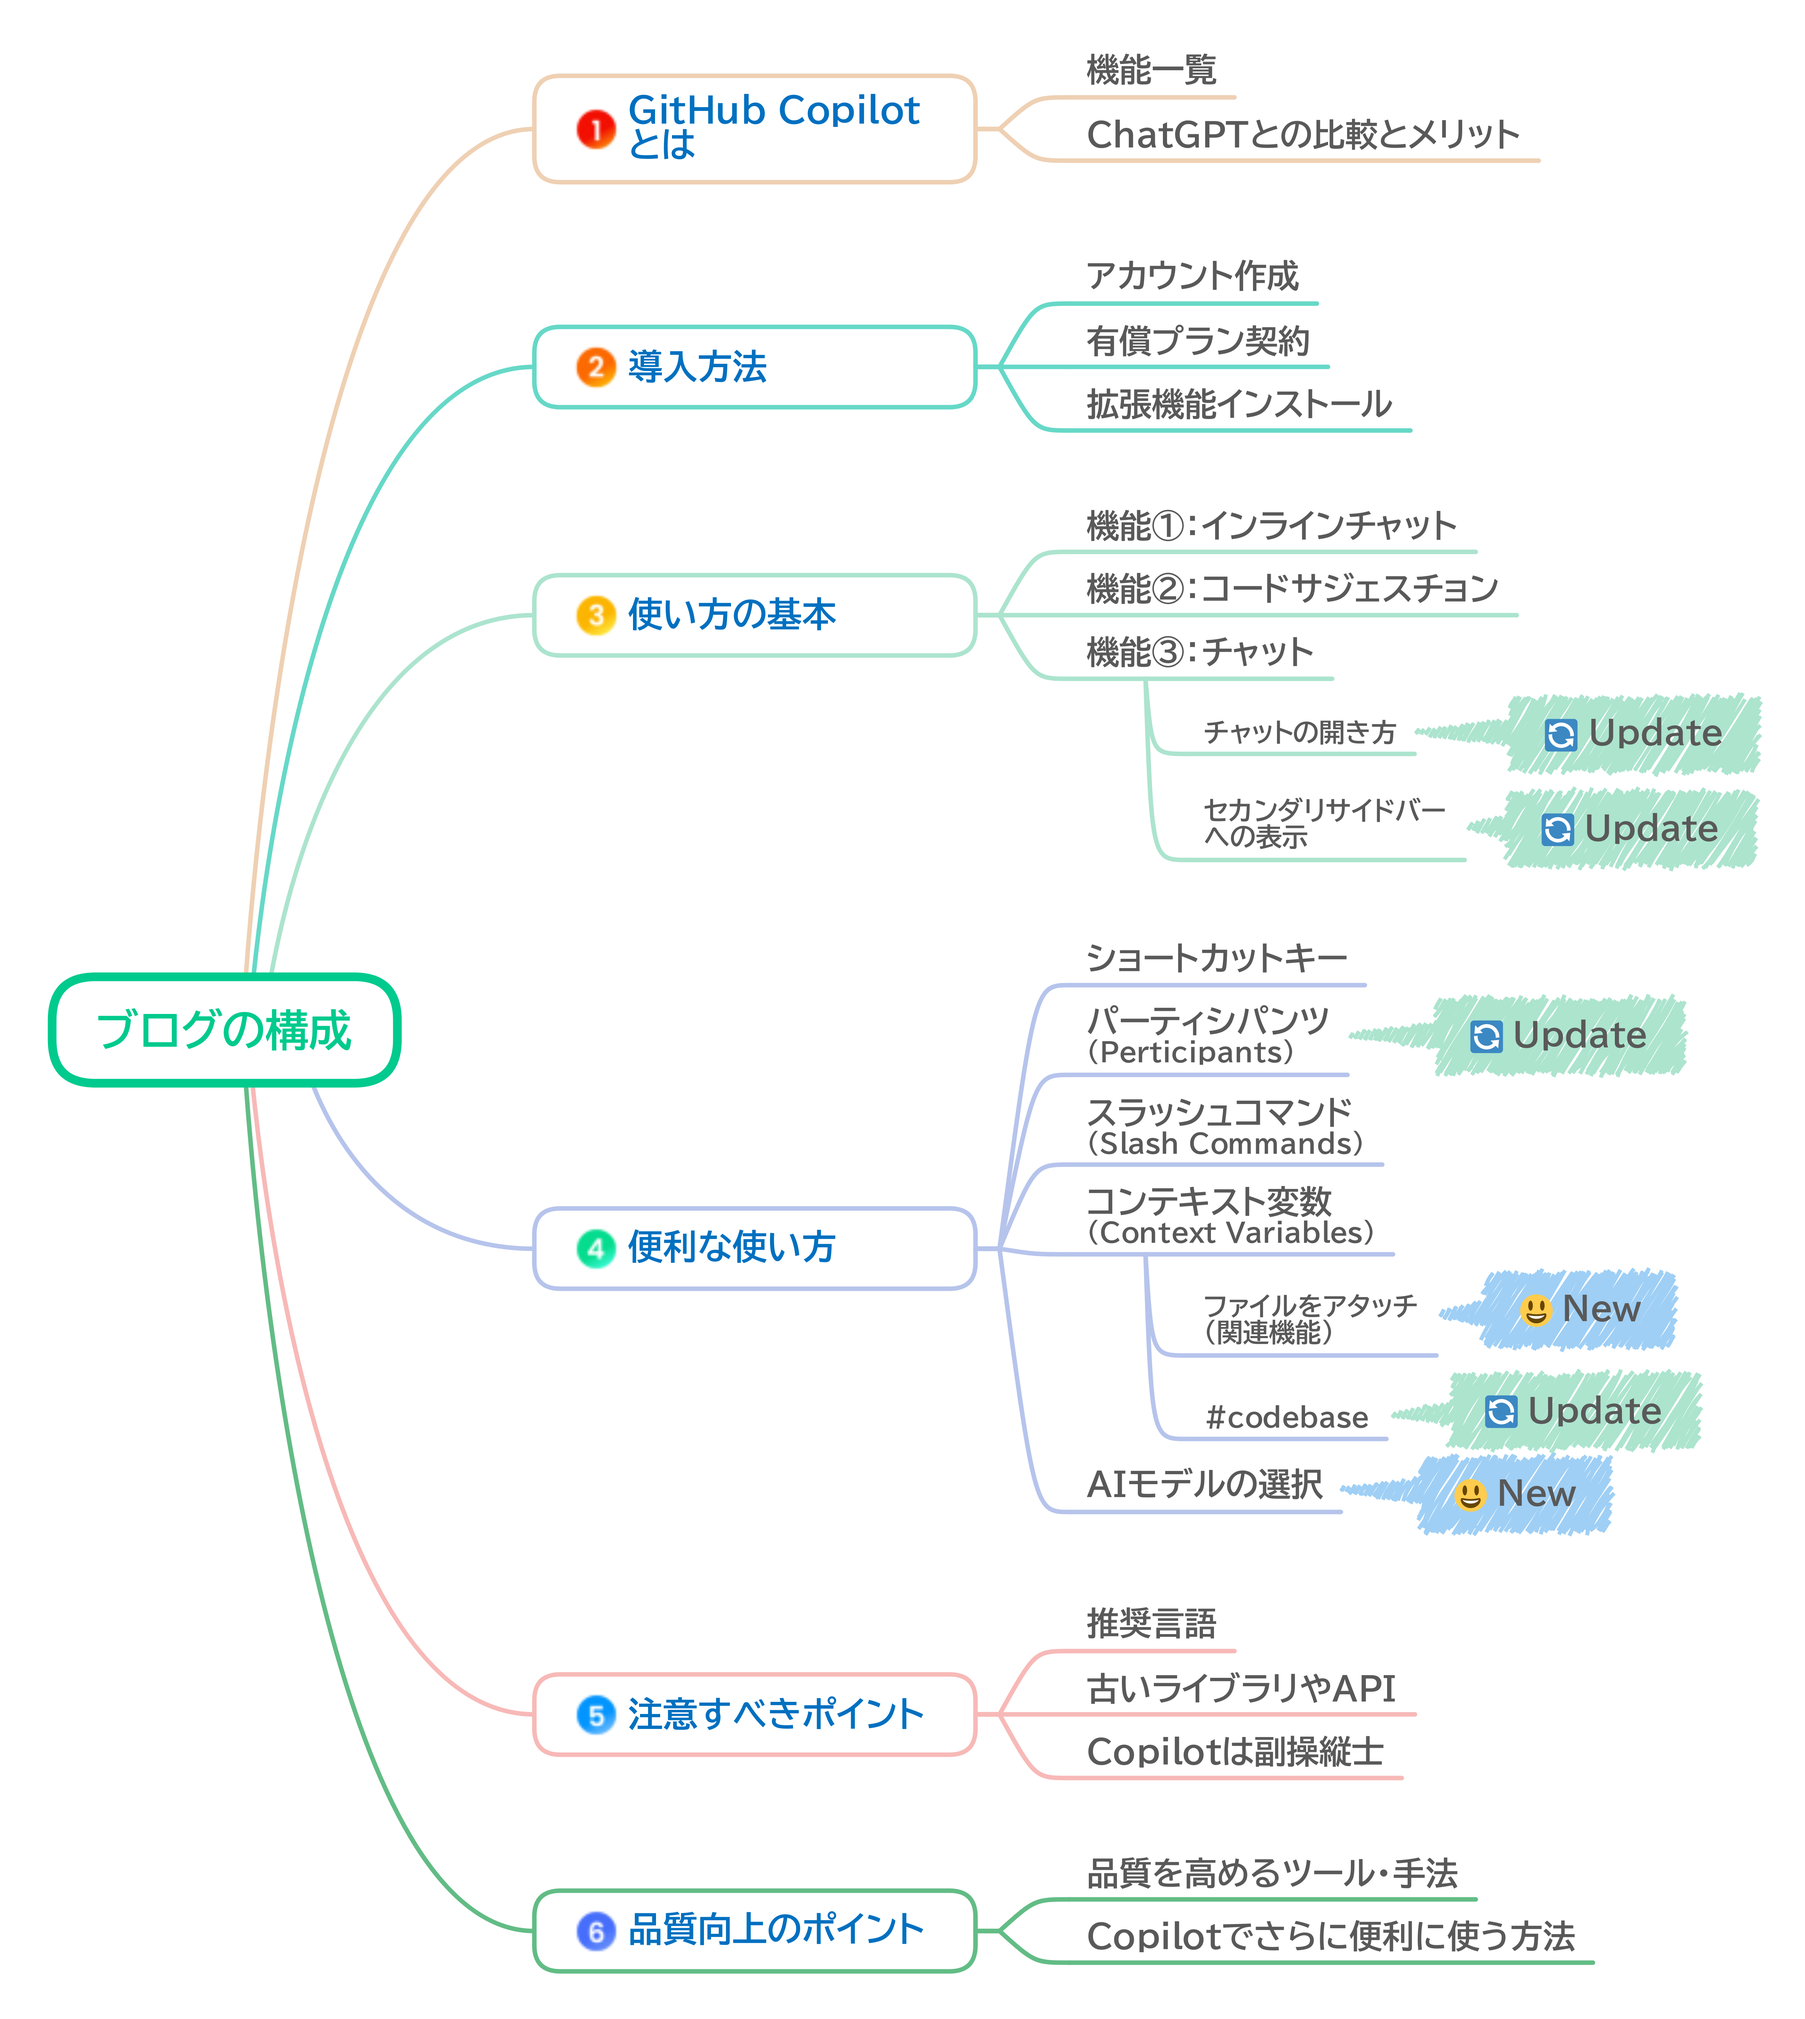
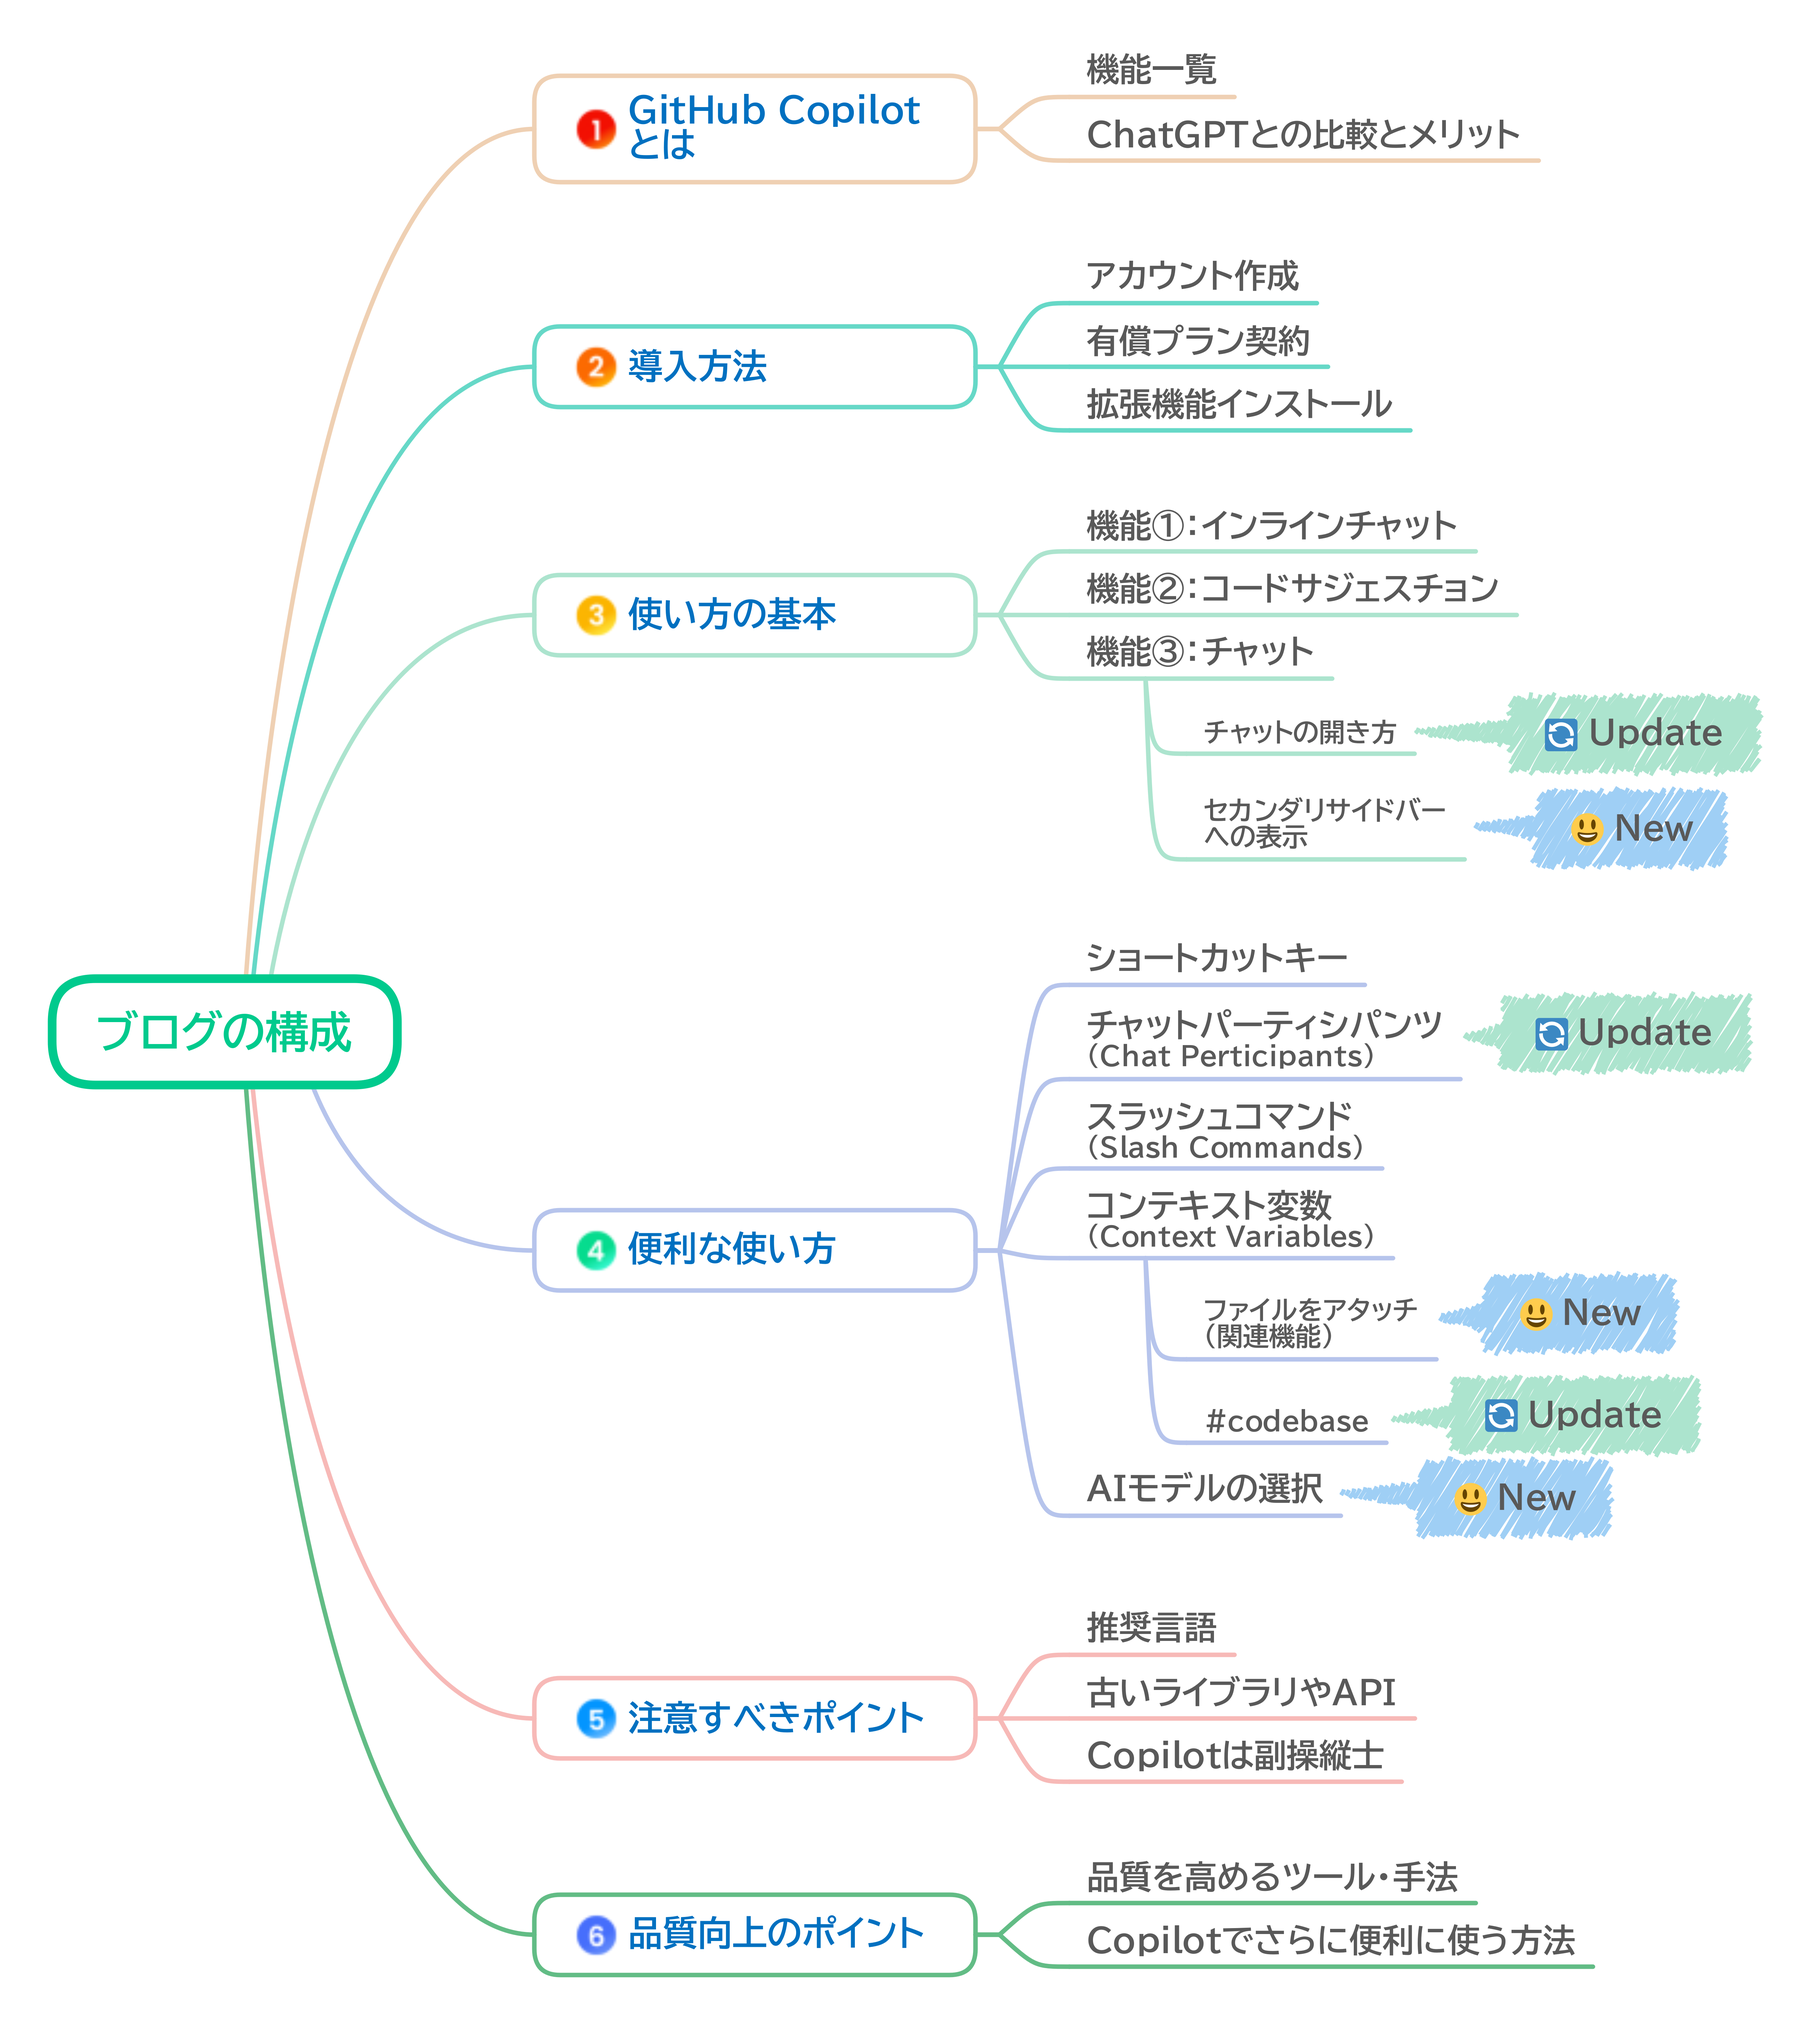
cop_チャットパーティシパンツ

diff --git a/articles/turtle-20240223-gitcopilot.md b/articles/turtle-20240223-gitcopilot.md
@@ -333,7 +333,7 @@ pyファイルの中でインラインチャットが呼び出され、指示を
 まずは、「使い方の基本」で紹介した機能を、自然な言葉で試してみてください。そして、これらの基本機能に慣れてきたら、次に示す「便利な使い方」にも挑戦してみてください。より効率的に、目的に応じた使い方ができるようになります。
 
 - ショートカットキー
-- パーティシパンツ（Participants）
+- チャットパーティシパンツ（Chat Participants）
 - スラッシュコマンド（Slash Commands）
 - コンテキスト変数（Context Variables）
 - AIモデルの選択
@@ -356,15 +356,16 @@ GitHub Copilotでは、次のショートカットキーを使うことができ
 (参考URL) [GitHub Copilot の概要 (公式)](https://docs.github.com/ja/copilot/using-github-copilot/getting-started-with-github-copilot)
 (※) 「次/前の提案を表示する」は、環境により動作しない可能性があります。
 
-### パーティシパンツ（Participants）
+### チャットパーティシパンツ（Chat Participants）
 
-パーティシパンツは、日本語では「参加者」と訳されます。解説サイトによっては、エージェントと呼ばれることもあります。チャット欄に`@workspace`や`@terminal`のようなタグを入力し、その後に続く指示を行うことで、ワークスペースやターミナルなど特定の内容について質問を行うことができます。このタグ付けを行うことで、質問の範囲を広げ、より良い回答を得ることができます。
+チャットパーティシパンツは、日本語では「チャット参加者」と訳されます。解説サイトによっては、エージェントと呼ばれることもあります。チャット欄に`@workspace`や`@terminal`のようなタグを入力し、その後に続く指示を行うことで、ワークスペースやターミナルなど特定の内容について質問を行うことができます。このタグ付けを行うことで、質問の範囲を広げ、より良い回答を得ることができます。
 
-※ なお「Participants」という表記は、VSCode拡張機能「GitHub Copilot Chat」の説明に基づいています。
+※「Chat participants」という表記は、GitHub DocsやVSCode拡張機能「GitHub Copilot Chat」の説明に基づいています。
+(参考URL) [GitHub Docs - Chat participants (公式)](https://docs.github.com/en/copilot/using-github-copilot/asking-github-copilot-questions-in-your-ide#chat-participants)
 
 #### タグ一覧
 
-パーティシパンツのタグ一覧を示します。
+チャットパーティシパンツのタグ一覧を示します。
 
 | 変数名        | 内容                              | よく使う(★) |
 |------------|---------------------------------|---------|
@@ -697,7 +698,7 @@ https://zenn.dev/safubuki/articles/turtle-20240721-tripo-3dp
   - チャット機能の起動方法や表示位置について記載
   - チャット機能のgif動画を更新
   - 便利な使い方の章を追加して、コンテキスト変数などを移動
-  - パーティシパンツ（Participants）章を新規追加
+  - チャットパーティシパンツ（Chat Participants）章を新規追加
   - コンテキスト変数の#fileにファイルをアタッチする機能を新規追加
   - コンテキスト変数#codebaseを追加更新
   - AIモデルの選択を新規追加
